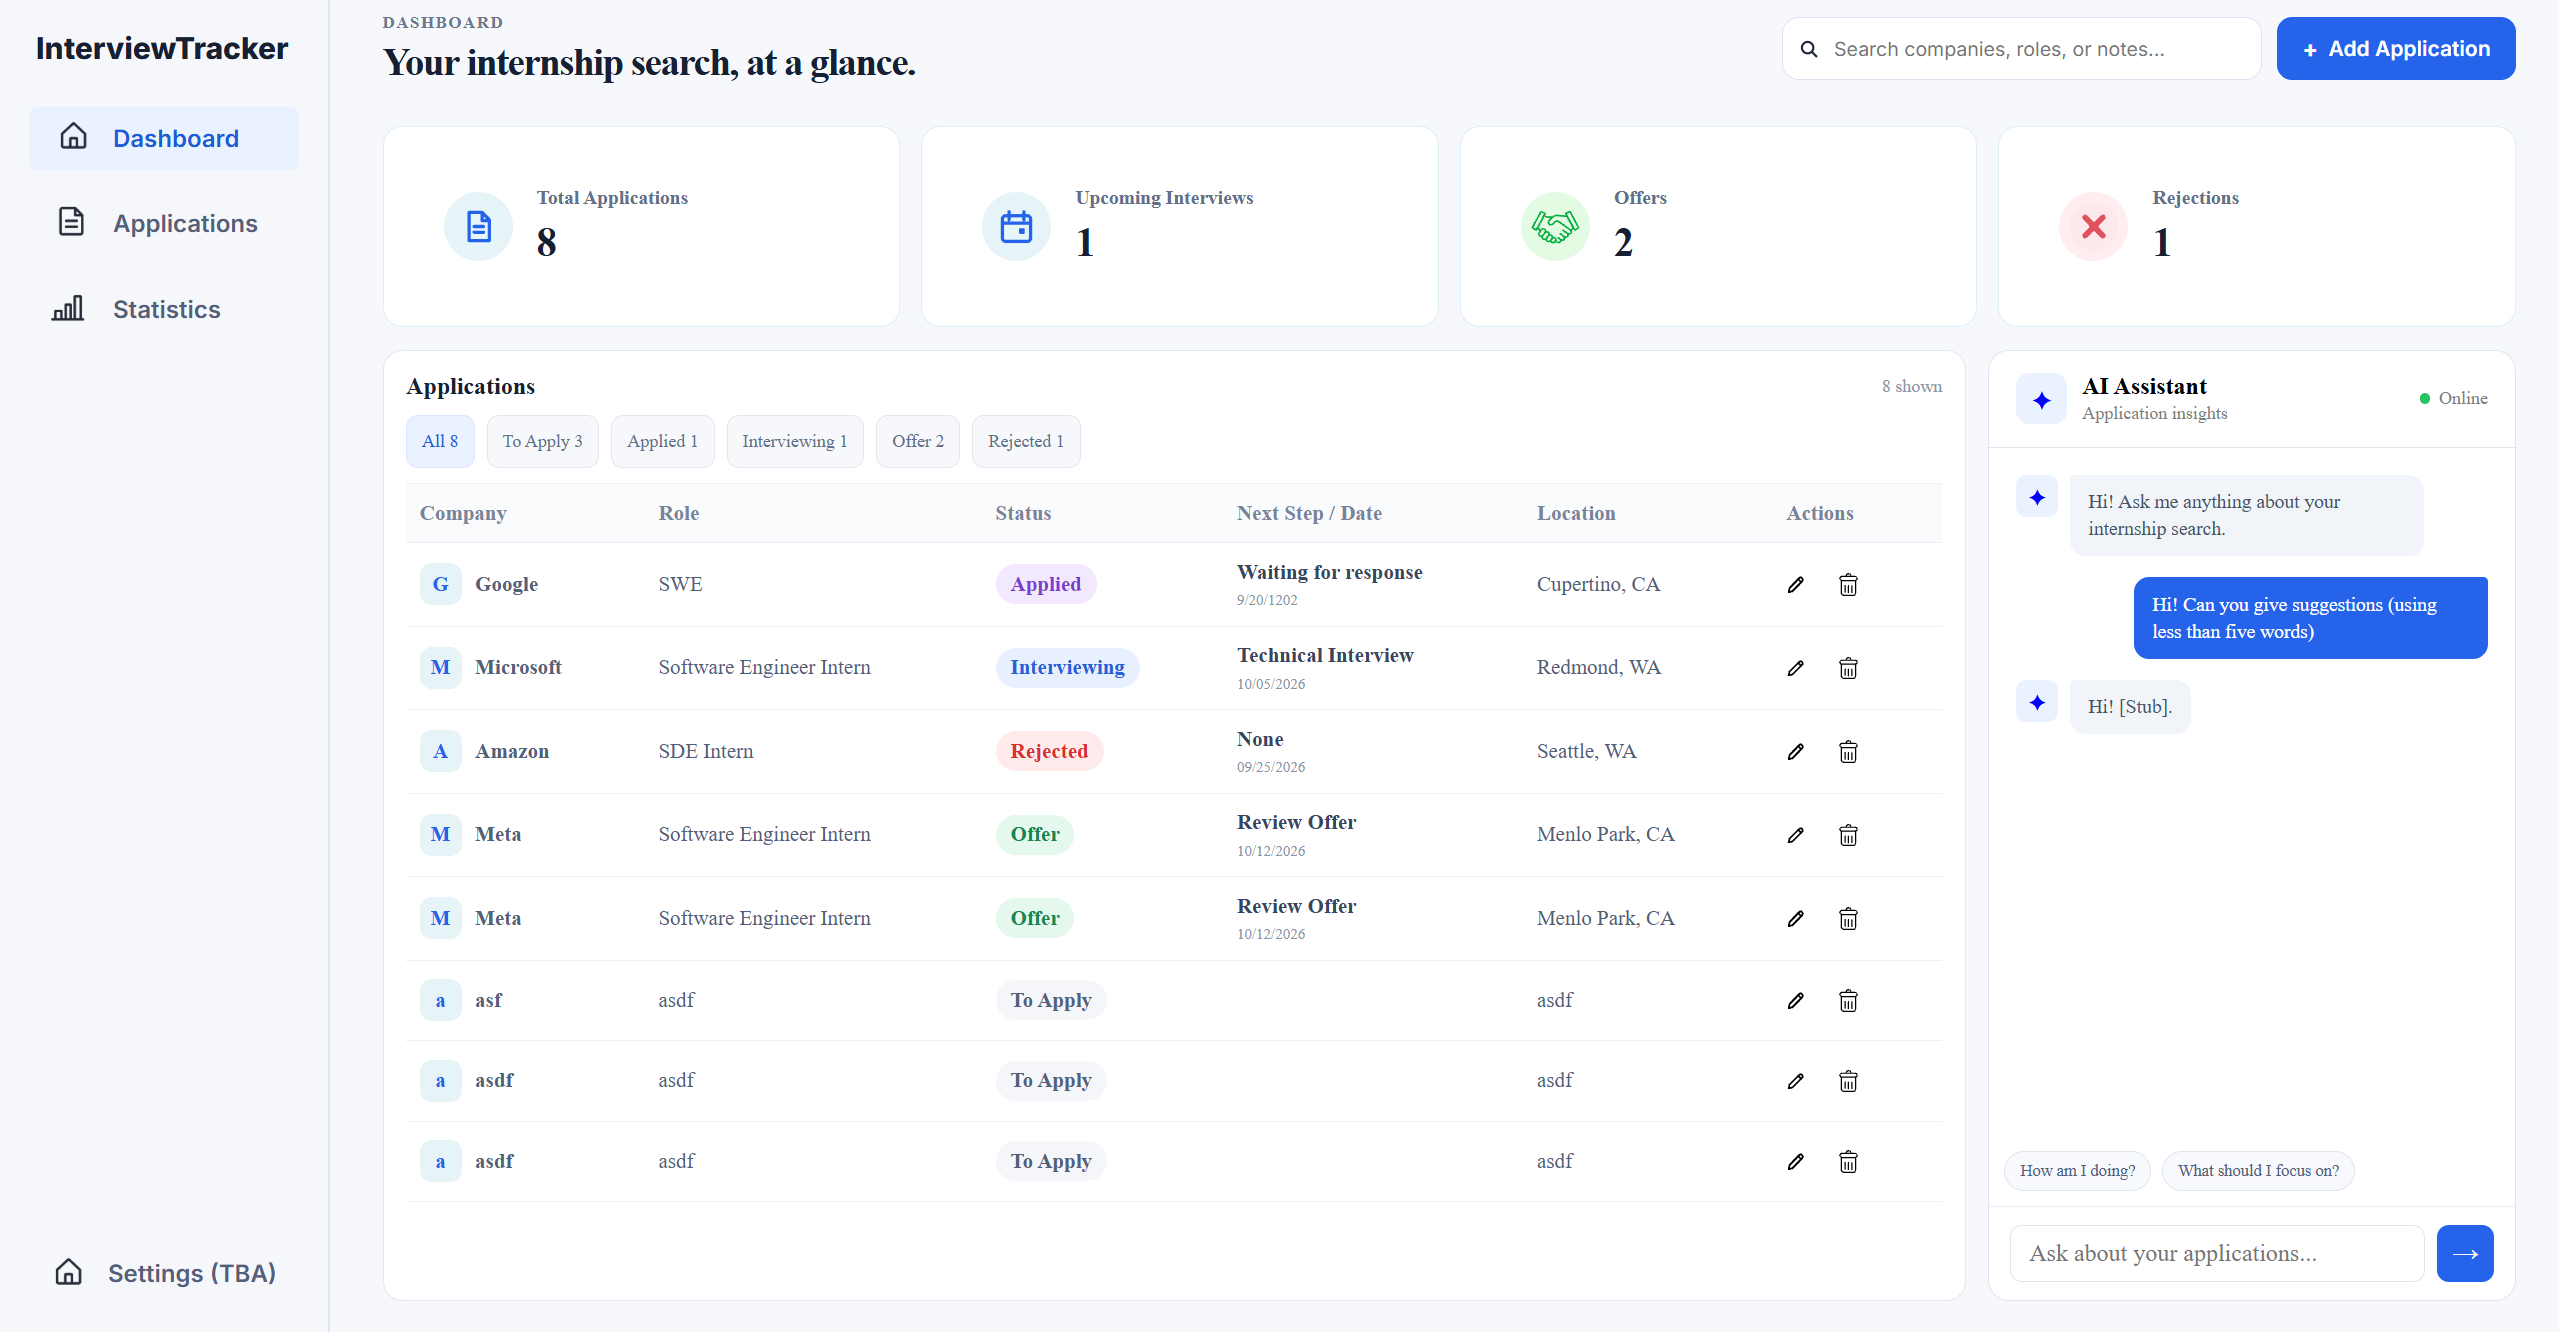
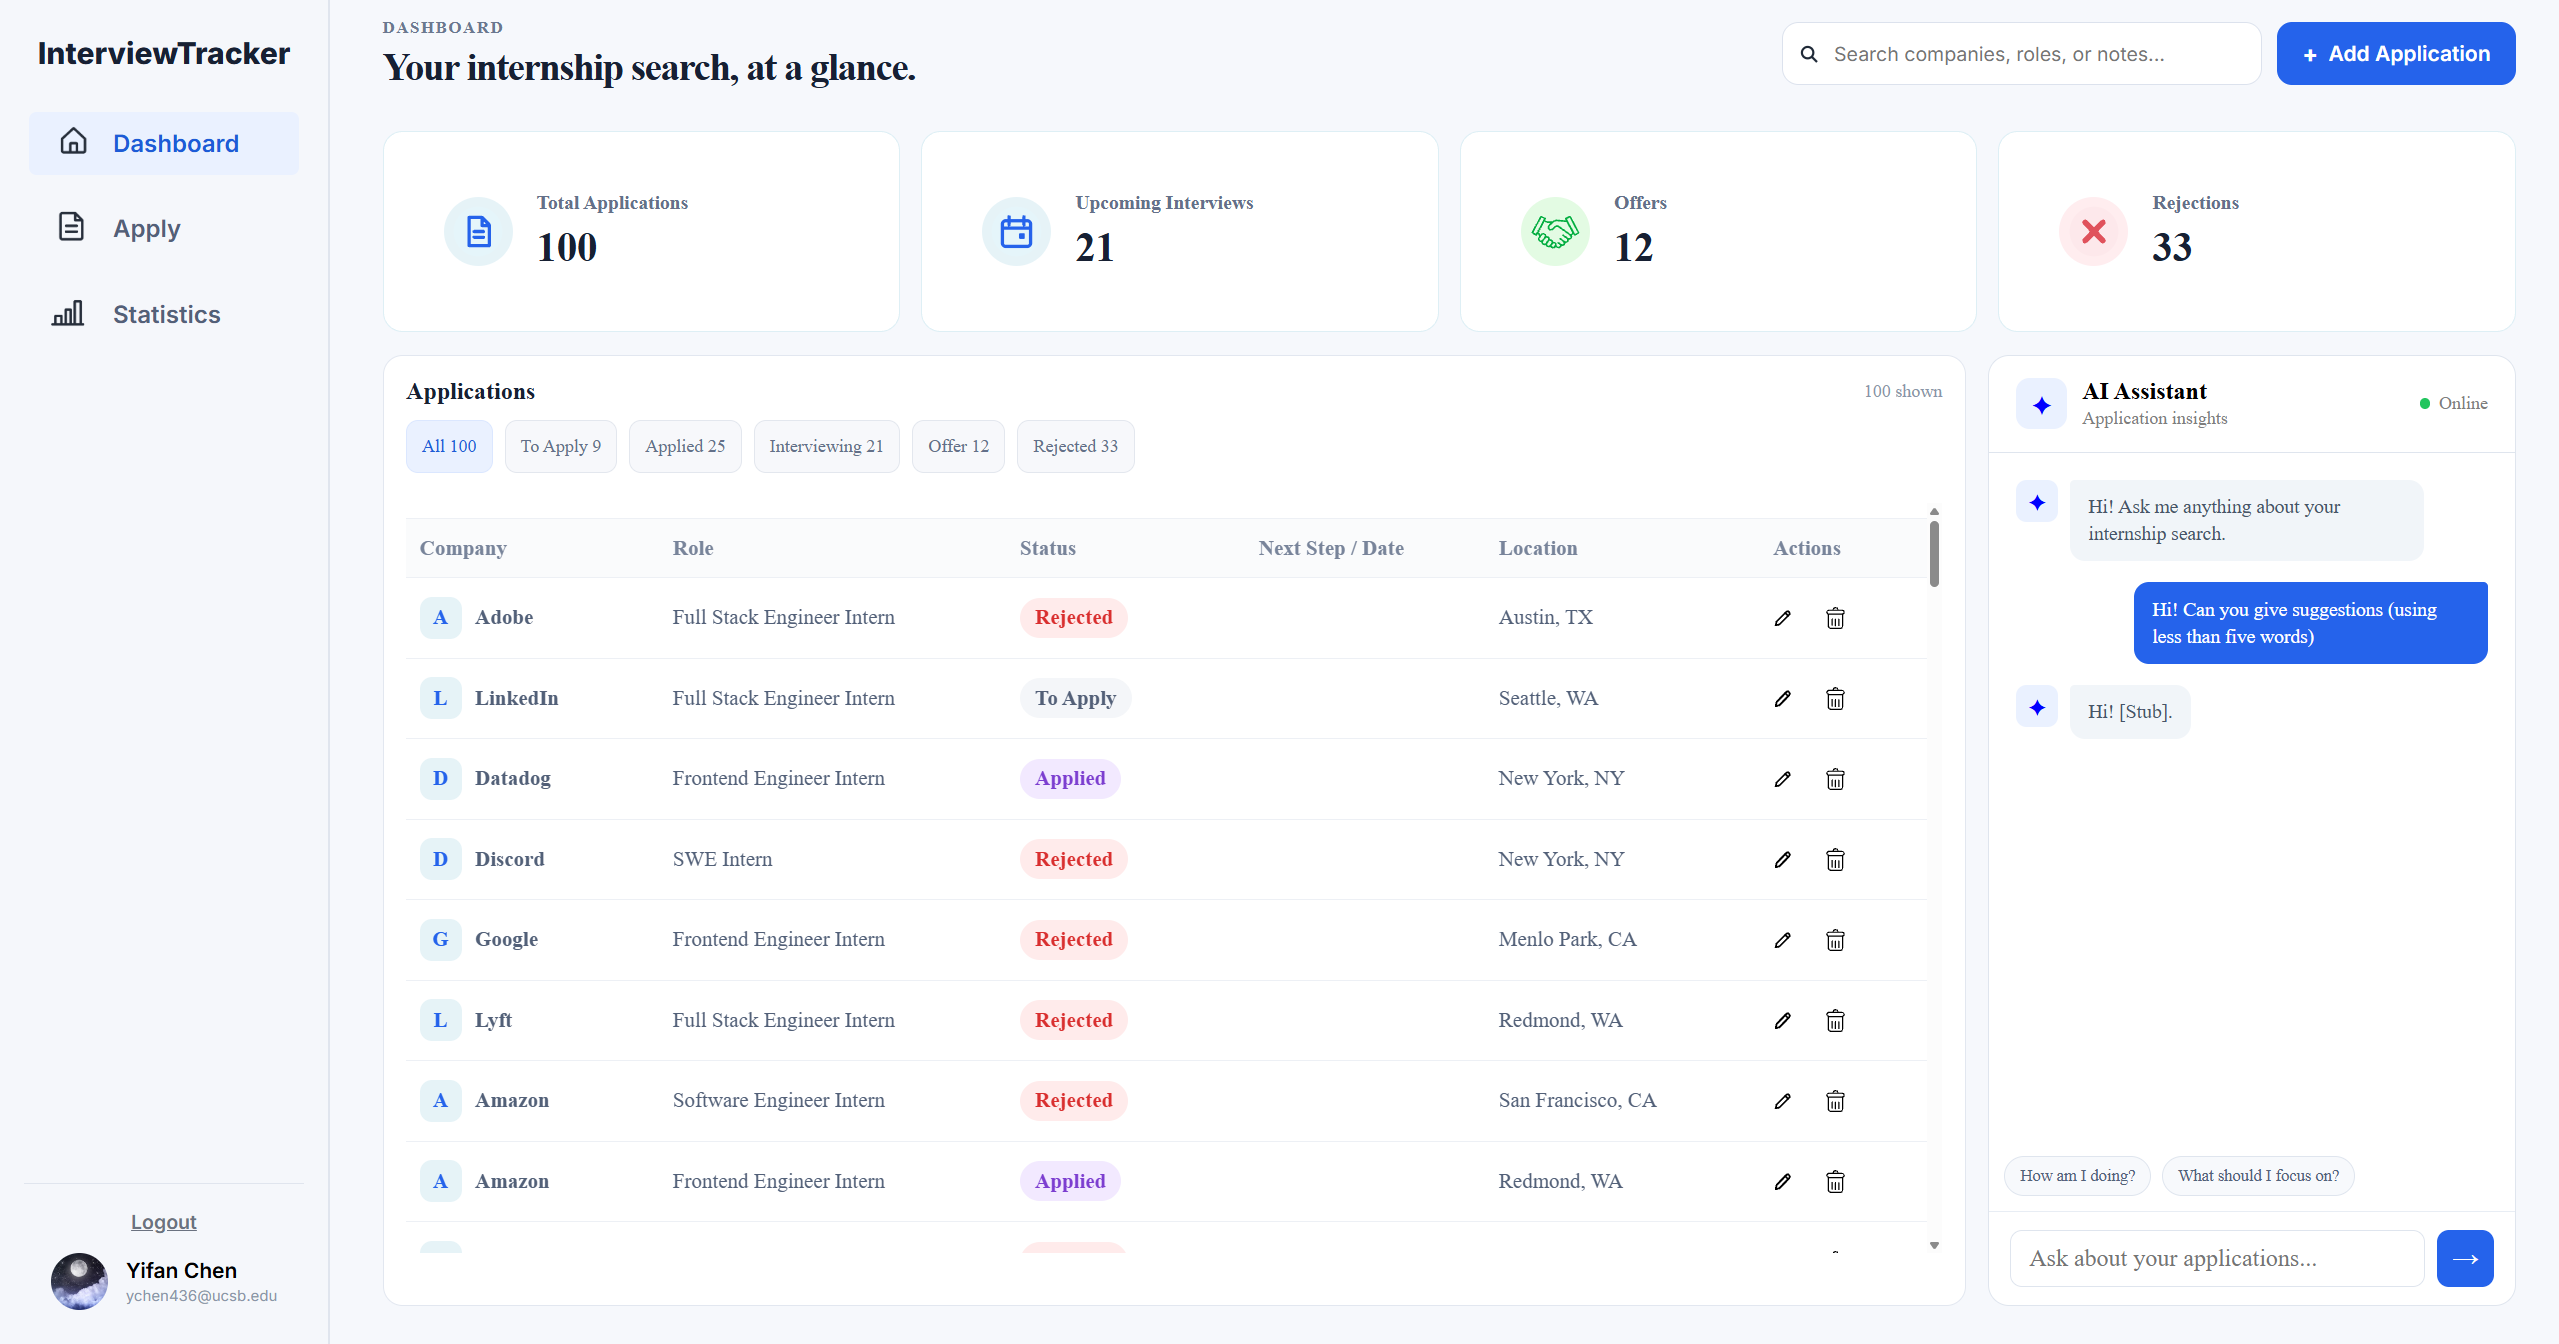
change some style in chart

diff --git a/frontend/src/App.tsx b/frontend/src/App.tsx
@@ -7,6 +7,7 @@ import { Header } from "./Header/Header";
 import { Details } from "./Details/Details";
 import { Applications } from "./Applications/Applications";
 import type { ApplicationDraft, Application } from "./data/ApplicationArray";
+import { ApplicationArray } from "./data/ApplicationArray";
 import { ApplicationForm } from "./Forms/ApplicationForm/ApplicationForm";
 import { EditForm } from "./Forms/EditForm/EditForm";
 import { Charts } from "./Charts/Chart";
@@ -33,7 +34,13 @@ function App() {
   const [selectedJob, setSelectedJob] = useState<ApplicationDraft | null>(null);
 
   // Create application from local storage
-  const [applications, setApplications] = useState<Application[]>([]);
+  const DEMO_MODE = true;
+
+  const [applications, setApplications] = useState<Application[]>(
+    DEMO_MODE
+      ? new ApplicationArray().applications
+      : []
+  );
 
   const [user, setUser] = useState<User | null>(null);
 
@@ -57,40 +64,40 @@ function App() {
   }, []);
 
   // Whenever applications changed, save to local storage
-  useEffect(() => {
-    if (!user) return;
+  // useEffect(() => {
+  //   if (!user) return;
 
-    const getApplications = async () => {
-      try {
-        const response = await axios.get(
-          "http://localhost:5000/api/applications",
-          {
-            withCredentials: true,
-          }
-        );
+  //   const getApplications = async () => {
+  //     try {
+  //       const response = await axios.get(
+  //         "http://localhost:5000/api/applications",
+  //         {
+  //           withCredentials: true,
+  //         }
+  //       );
 
-        const loadedApplications: Application[] = response.data.map(
-          // @ts-expect-error: Need type since tsx, may fix it later
-          (app) => ({
-            id: app.jobId,
-            company: app.company,
-            role: app.role,
-            status: app.status,
-            statusHistory: app.statusHistory,
-            nextStep: app.nextStep,
-            date: app.date,
-            location: app.location,
-          })
-        );
+  //       const loadedApplications: Application[] = response.data.map(
+  //         // @ts-expect-error: Need type since tsx, may fix it later
+  //         (app) => ({
+  //           id: app.jobId,
+  //           company: app.company,
+  //           role: app.role,
+  //           status: app.status,
+  //           statusHistory: app.statusHistory,
+  //           nextStep: app.nextStep,
+  //           date: app.date,
+  //           location: app.location,
+  //         })
+  //       );
 
-        setApplications(loadedApplications);
-      } catch (error) {
-        console.error("Failed to load applications:", error);
-      }
-    };
+  //       setApplications(loadedApplications);
+  //     } catch (error) {
+  //       console.error("Failed to load applications:", error);
+  //     }
+  //   };
 
-    getApplications();
-  }, [user]);
+  //   getApplications();
+  // }, [user]);
 
   return (
     // Entire window

diff --git a/frontend/src/Charts/Chart.tsx b/frontend/src/Charts/Chart.tsx
@@ -136,7 +136,7 @@ export function Charts({ applications }: ChartsProp) {
           y={y - 1}
           width={width}
           height={height + 2}
-          radius={4}
+          radius={2}
           fill={getNodeColor(payload.name)}
         />
 
@@ -191,7 +191,7 @@ export function Charts({ applications }: ChartsProp) {
         stroke={getLinkColor(index)}
         strokeWidth={linkWidth}
         fill="none"
-        strokeOpacity={0.5}
+        strokeOpacity={0.3}
       />
     );
   }
@@ -217,12 +217,12 @@ export function Charts({ applications }: ChartsProp) {
       <div className="chart-header">Application Stats</div>
 
       <div className="application-flow-chart">
-        <ResponsiveContainer width="100%" height="100%">
+        <ResponsiveContainer width="80%" height="80%">
           <Sankey
             data={graphData}
             node={MyCustomSankeyNode}
             link={MyCustomSankeyLink}
-            nodeWidth={24}
+            nodeWidth={14}
             nodePadding={50}
             align="left"
             sort={false}

diff --git a/frontend/src/Charts/Charts.css b/frontend/src/Charts/Charts.css
@@ -33,6 +33,10 @@
   height: 480px;
   margin-top: 20px;
   font-family: Arial, sans-serif;
+
+  display: flex;
+  align-items: center;
+  justify-content: center;
   /* background-color: lightblue; */
 }
 

diff --git a/README.md b/README.md
@@ -14,6 +14,10 @@ The application aggregates job postings from public job-board APIs and provides 
 
 ![Job Finder](screenshots/jobtable.png)
 
+### Statistics
+
+![Job Finder](screenshots/stats.png)
+
 ## Features
 
 - Track one self's current job applications and their current status
